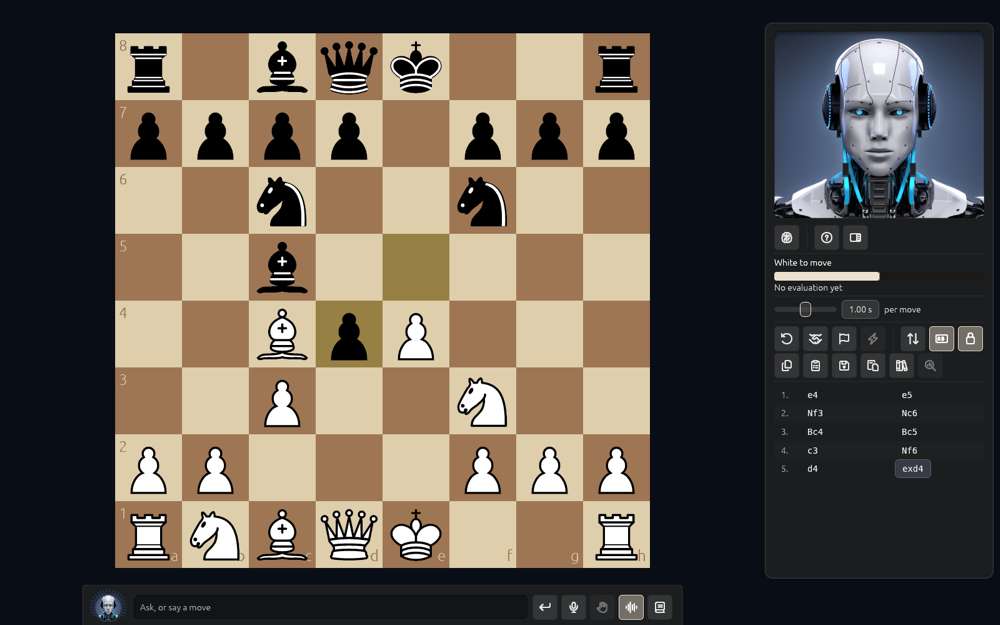
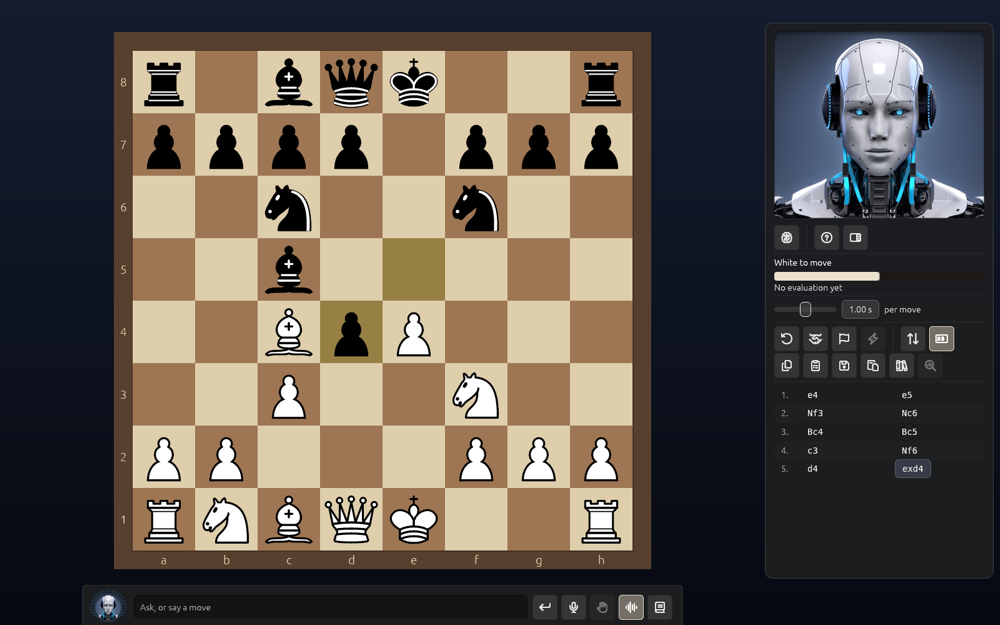
The 2D board's border, backgrounds and view-aware preferences (cjus/chessgui#529)

Changed region(s): [[0.093, 0.0304, 0.651, 0.912], [0.961, 0.5168, 0.992, 0.5776]]

diff --git a/book/src/preferences.md b/book/src/preferences.md
@@ -17,12 +17,15 @@ The tabs, in order:
 ![Preferences, the Chess Set tab](images/preferences-chess-set.png)
 
 - **Board**: the **Main view**, **3D board** (the photographic board and pieces) or **2D board**
-  (a large flat board, see [Playing](playing.md)), the **Chess set** (Classic wood, Ebony + maple,
-  Jade + Verde, Nero + Greige; the 3D board's) and **Show board coordinates** (a–h, 1–8; both
-  boards).
-- **Chess clock**: the colour of the clock's shell, from the picker or a swatch: Original
-  black, Cognac or Burgundy. **Reset** brings the black back. It is the 3D board's clock, so it
-  isn't shown while the 2D board is chosen.
+  (a large flat board, see [Playing](playing.md)), and **Show board coordinates** (a–h, 1–8; both
+  boards). With the 3D board, the **Chess set** (Classic wood, Ebony + maple, Jade + Verde, Nero +
+  Greige). With the 2D board, its **Background** (Midnight, Graphite, Slate, Forest, Wine or Sand).
+- **Chess clock** (3D board only): the colour of the clock's shell, from the picker or a swatch:
+  Original black, Cognac or Burgundy. **Reset** brings the black back.
+
+Preferences shows only what applies to the board you are using: with the 2D board there is no
+Lights tab, no Environment under Display, no chess set or clock, and the View and Settings menus
+leave out the camera, Environment and Clock Position.
 
 ## Avatar
 

diff --git a/book/src/playing.md b/book/src/playing.md
@@ -45,8 +45,9 @@ drawn, which is much lighter on the computer.
 
 You move as on the 3D board: click a piece and then a square, or drag it. The squares it can go
 to are marked, and the last move and a king in check are lit. Arrows and rings from the chat
-are drawn on it, the files and ranks are written in the squares at its edge (**Show board
-coordinates**, or the labels button in the panel, or `L`), and the pieces are drawn again for
+are drawn on it, and a border round it carries the files and ranks (**Show board
+coordinates**, or the labels button in the panel, or `L`). Choose its **Background** in
+Preferences → Chess Set. The pieces are drawn again for
 the size of the board whenever you resize the window. **Flip** (the panel's button, the menu or
 `F`) turns the board over to the other side at once. The game's clocks are in the panel; there
 is no 3D clock on the flat board.
